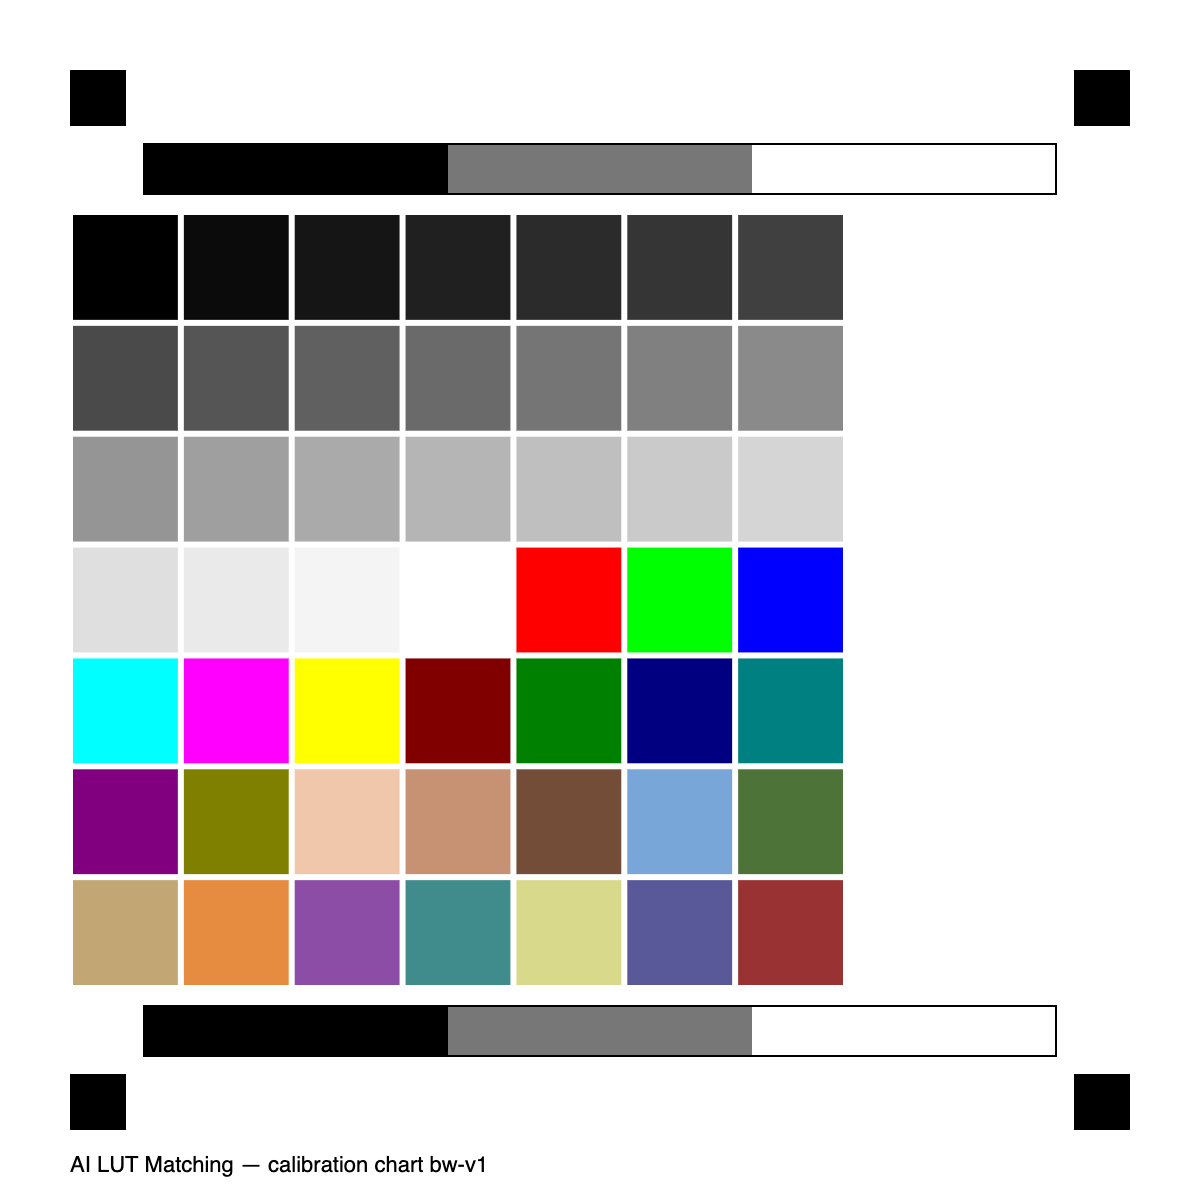
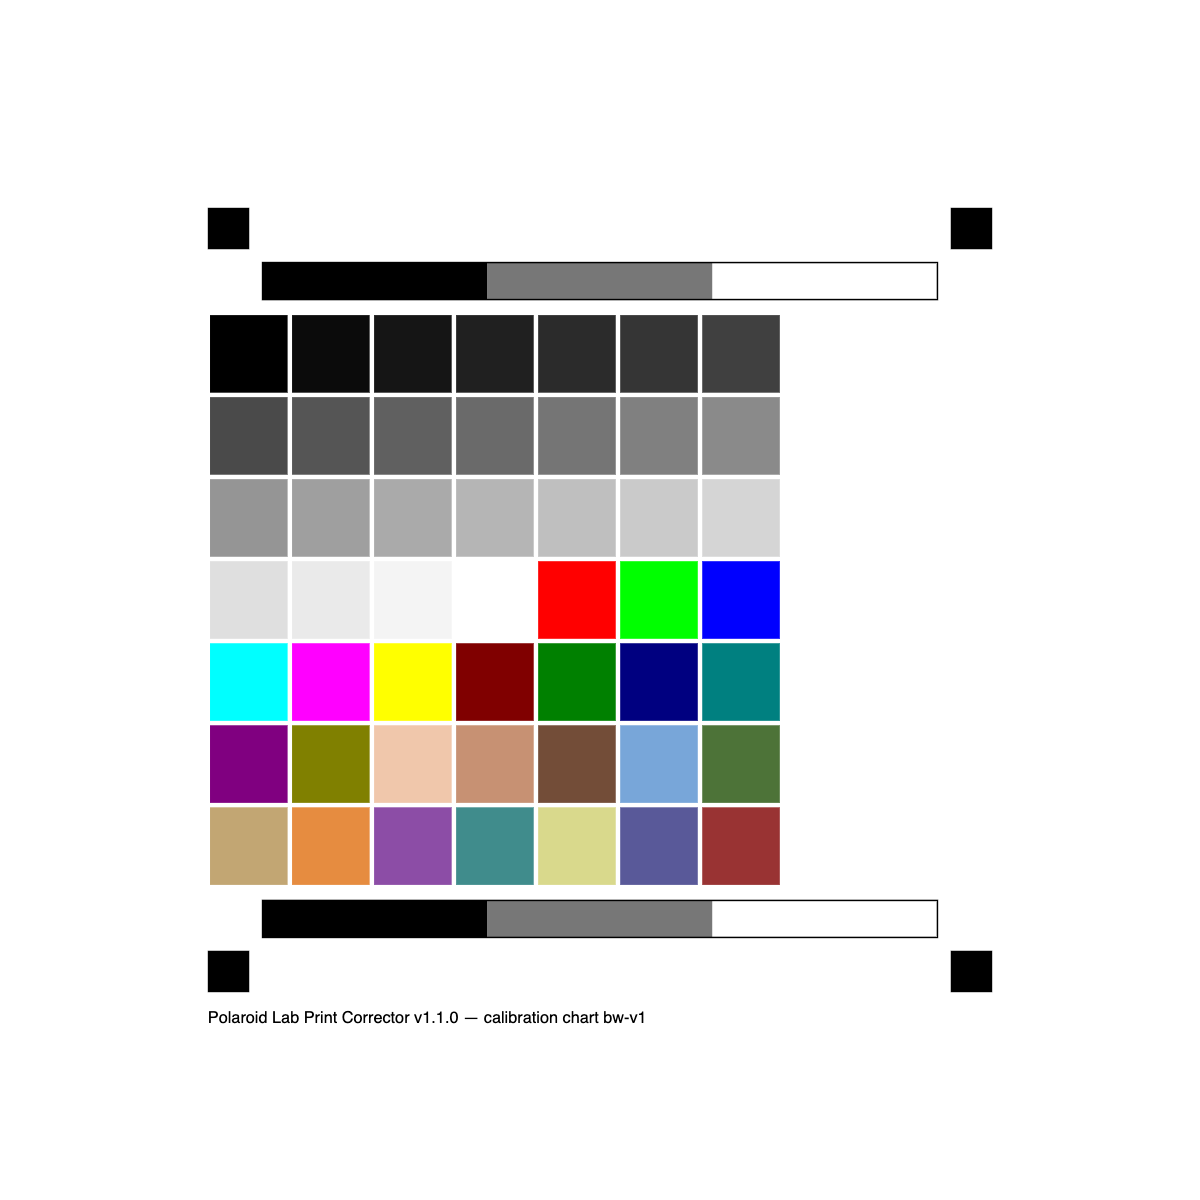
Shrink calibration charts into a centered safe area (v1.1.0)
The Polaroid Lab projects the phone down onto the film, so slight phone
rotation or misalignment was clipping/skewing the chart's edge fiducials.
Draw the chart at 74% of the frame, centered, with a white margin so that
slop can't reach the markers. The scale is uniform, so all fiducial/strip/
patch relative positions are preserved and extraction is unchanged
(verified: gray ramp reads back exactly). Bumped to v1.1.0; regenerated
the sample charts.

diff --git a/js/chart.js b/js/chart.js
@@ -137,6 +137,18 @@ function drawChart(canvas, chart) {
   canvas.height = S;
   const ctx = canvas.getContext('2d');
 
+  // Outer white frame, then draw the chart into a centered "safe area" so the
+  // Lab's imperfect phone alignment (small rotation, registration shift, edge
+  // crop) can't clip the fiducials. The scale is UNIFORM, so every fiducial /
+  // strip / patch keeps its relative position and fiducial-based extraction
+  // (CHART_GEOM + homography) is unaffected.
+  ctx.fillStyle = '#fff';
+  ctx.fillRect(0, 0, S, S);
+  const safe = 0.74; // chart occupies 74% of the frame, centered
+  ctx.save();
+  ctx.translate((S * (1 - safe)) / 2, (S * (1 - safe)) / 2);
+  ctx.scale(safe, safe);
+
   ctx.fillStyle = '#fff';
   ctx.fillRect(0, 0, S, S);
 
@@ -190,4 +202,6 @@ function drawChart(canvas, chart) {
   ctx.fillStyle = '#000';
   ctx.font = '22px sans-serif';
   ctx.fillText(`${APP_NAME} v${APP_VERSION} — calibration chart ${chart.id}`, margin, S - 28);
+
+  ctx.restore();
 }

diff --git a/js/version.js b/js/version.js
@@ -10,5 +10,5 @@
 
    It is shown in the app header, printed on the calibration charts, and baked
    into export filenames and the .cube title. */
-const APP_VERSION = '1.0.0';
+const APP_VERSION = '1.1.0';
 const APP_NAME = 'Polaroid Lab Print Corrector';